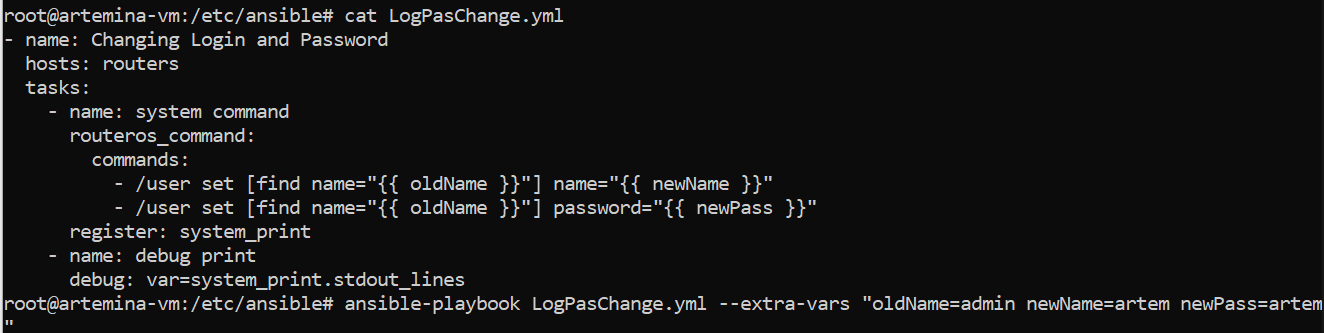
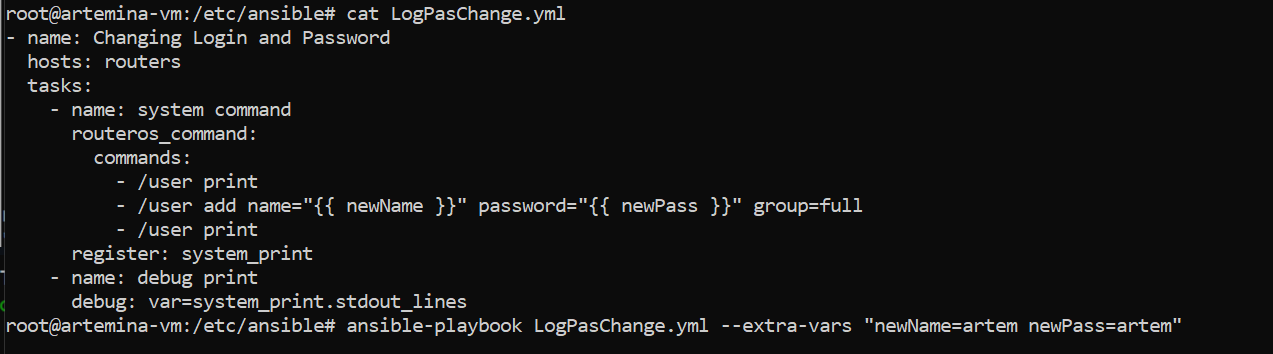
измненил на user add

Changed region(s): [[0.0, 0.0, 1.0, 1.0]]

diff --git a/lab2/lab2_report.md b/lab2/lab2_report.md
@@ -28,6 +28,7 @@ Date of finished: ...
 4.	Используя Ansible, настроены логин/пароль сразу на 2-х CHR. Выяснилось, что в последних версиях Mikrotik изменение имени пользователя запрещено.  
 ![Image text](https://github.com/Artemchikus/2022_2023-network_programming-k34202-filippov_a_a/raw/main/lab2/images/13.png)  
 ![Image text](https://github.com/Artemchikus/2022_2023-network_programming-k34202-filippov_a_a/raw/main/lab2/images/14.png)  
+![Image text](https://github.com/Artemchikus/2022_2023-network_programming-k34202-filippov_a_a/raw/main/lab2/images/14.5.png)  
 5.	Используя Ansible, настроены NTP-клиенты сразу на 2-х CHR.  
 ![Image text](https://github.com/Artemchikus/2022_2023-network_programming-k34202-filippov_a_a/raw/main/lab2/images/15.png)  
 ![Image text](https://github.com/Artemchikus/2022_2023-network_programming-k34202-filippov_a_a/raw/main/lab2/images/16.png)  
